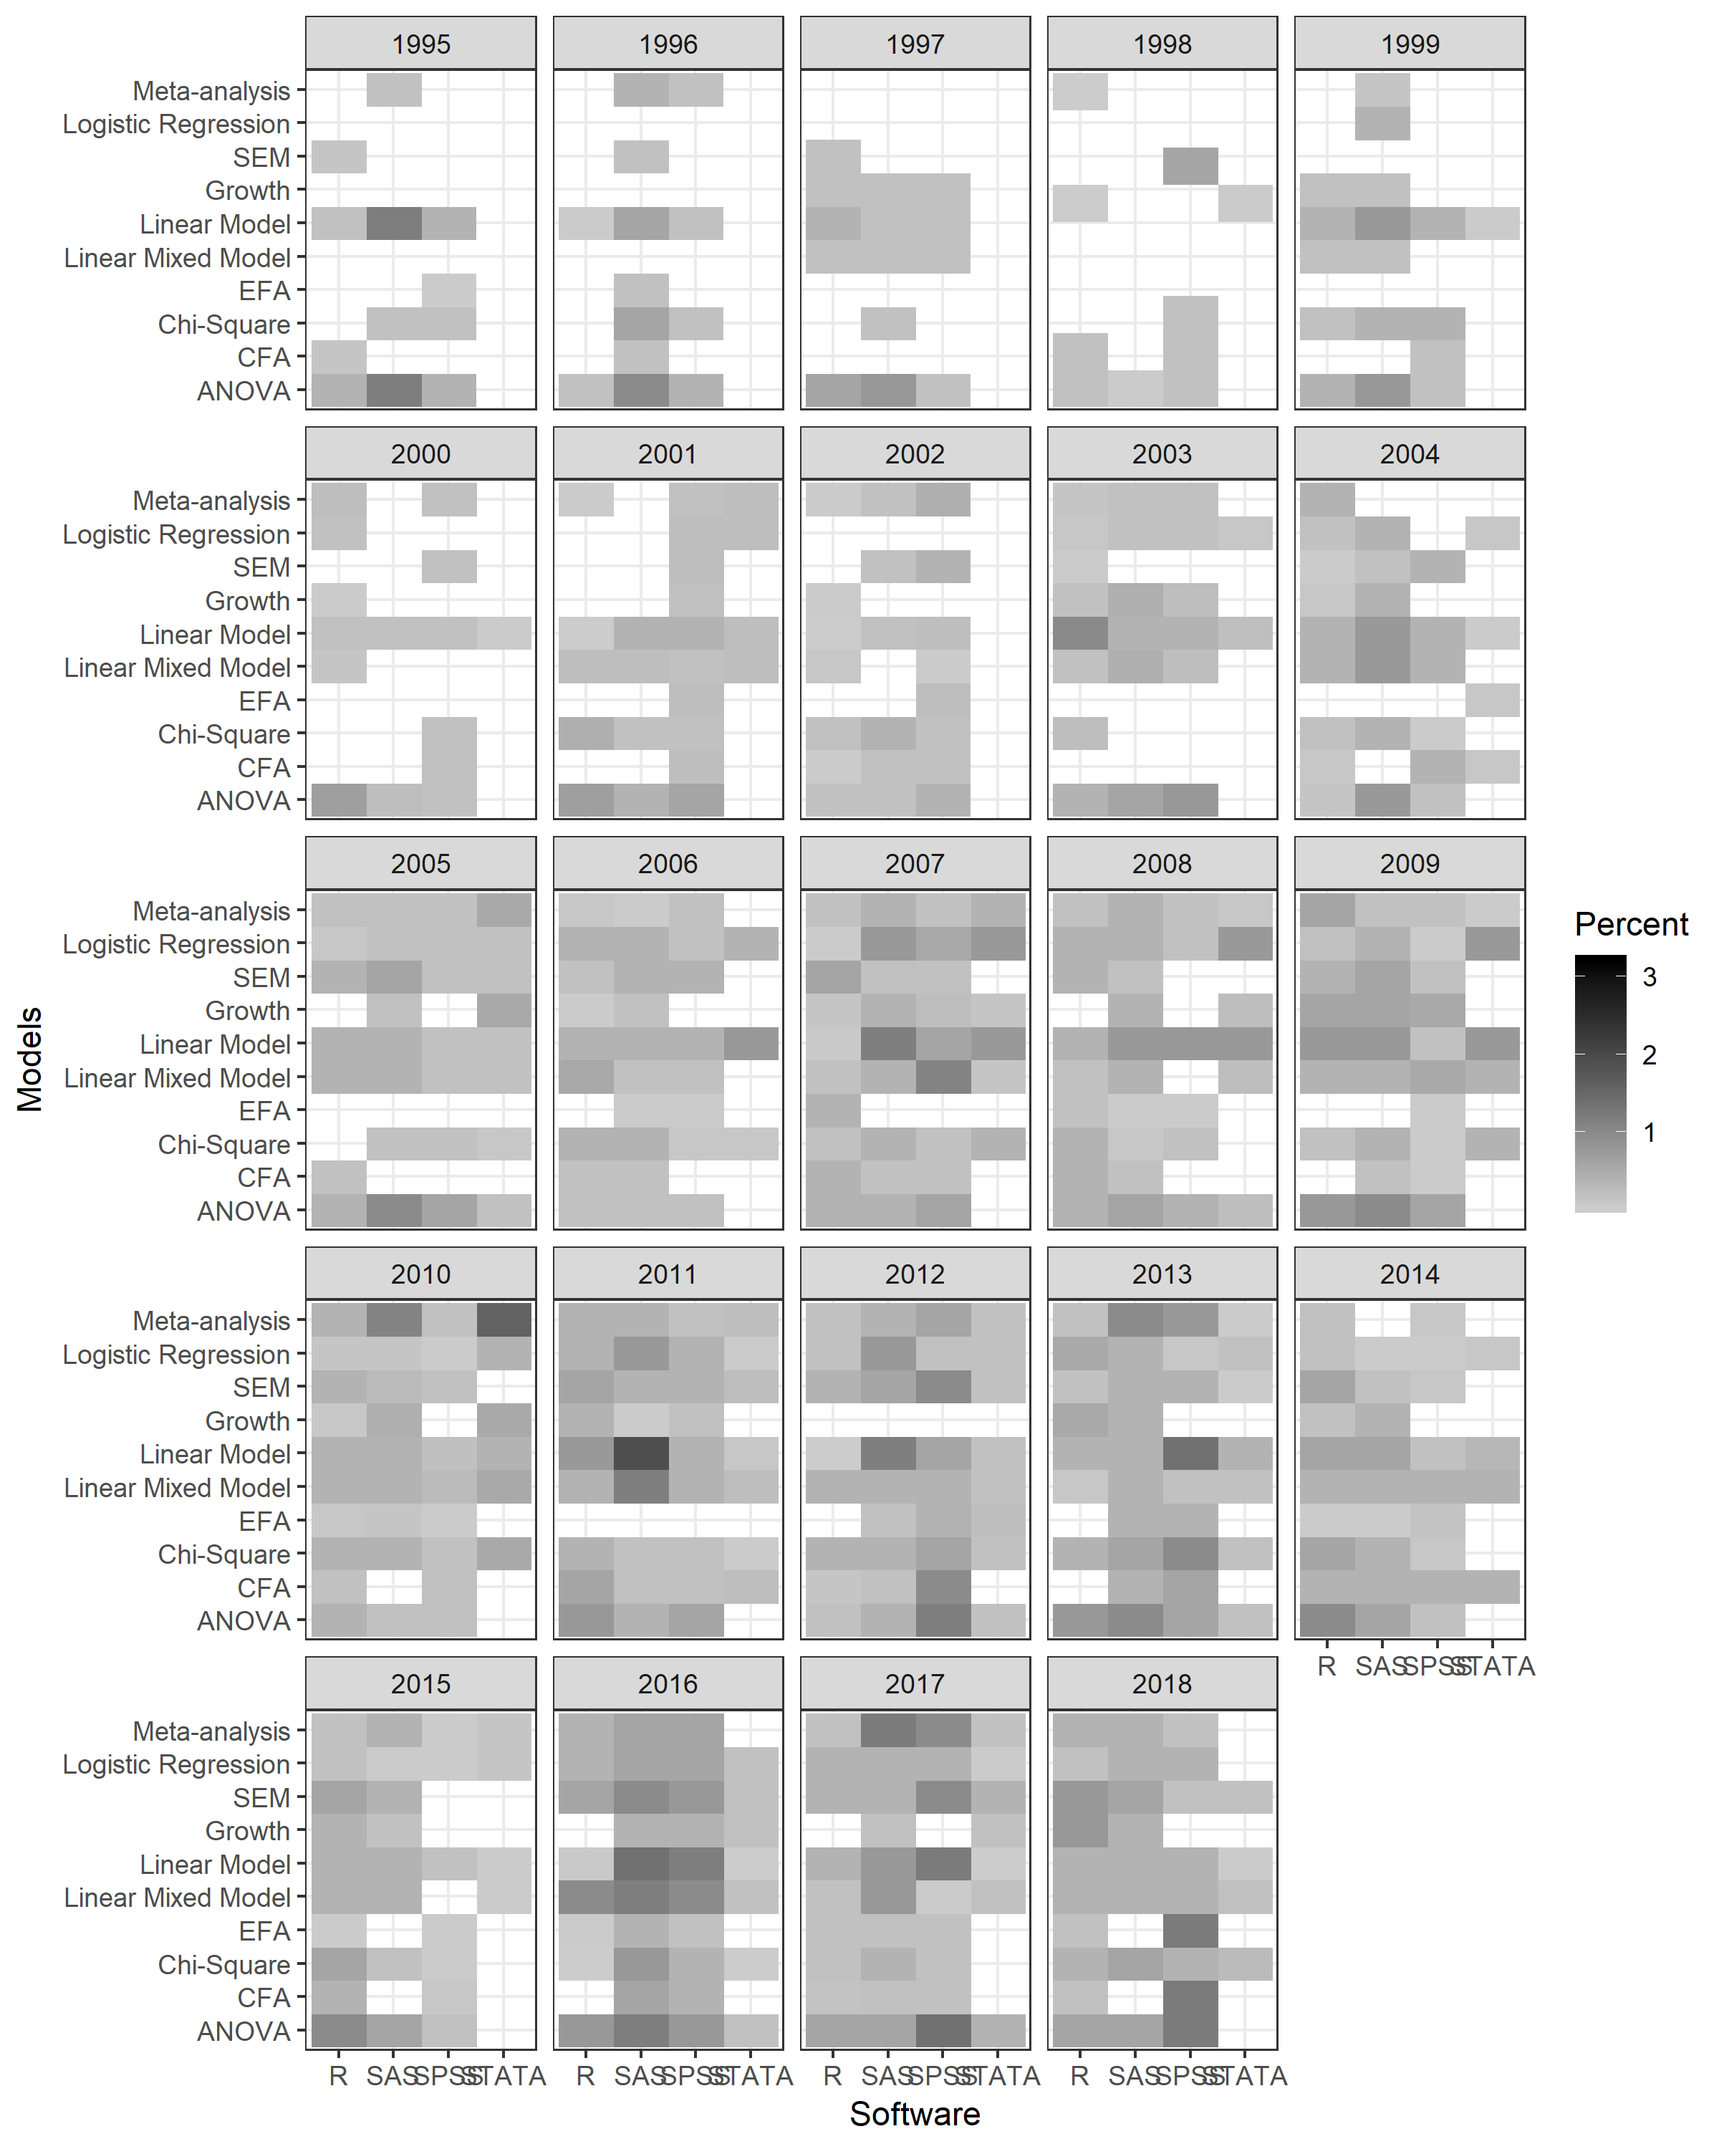
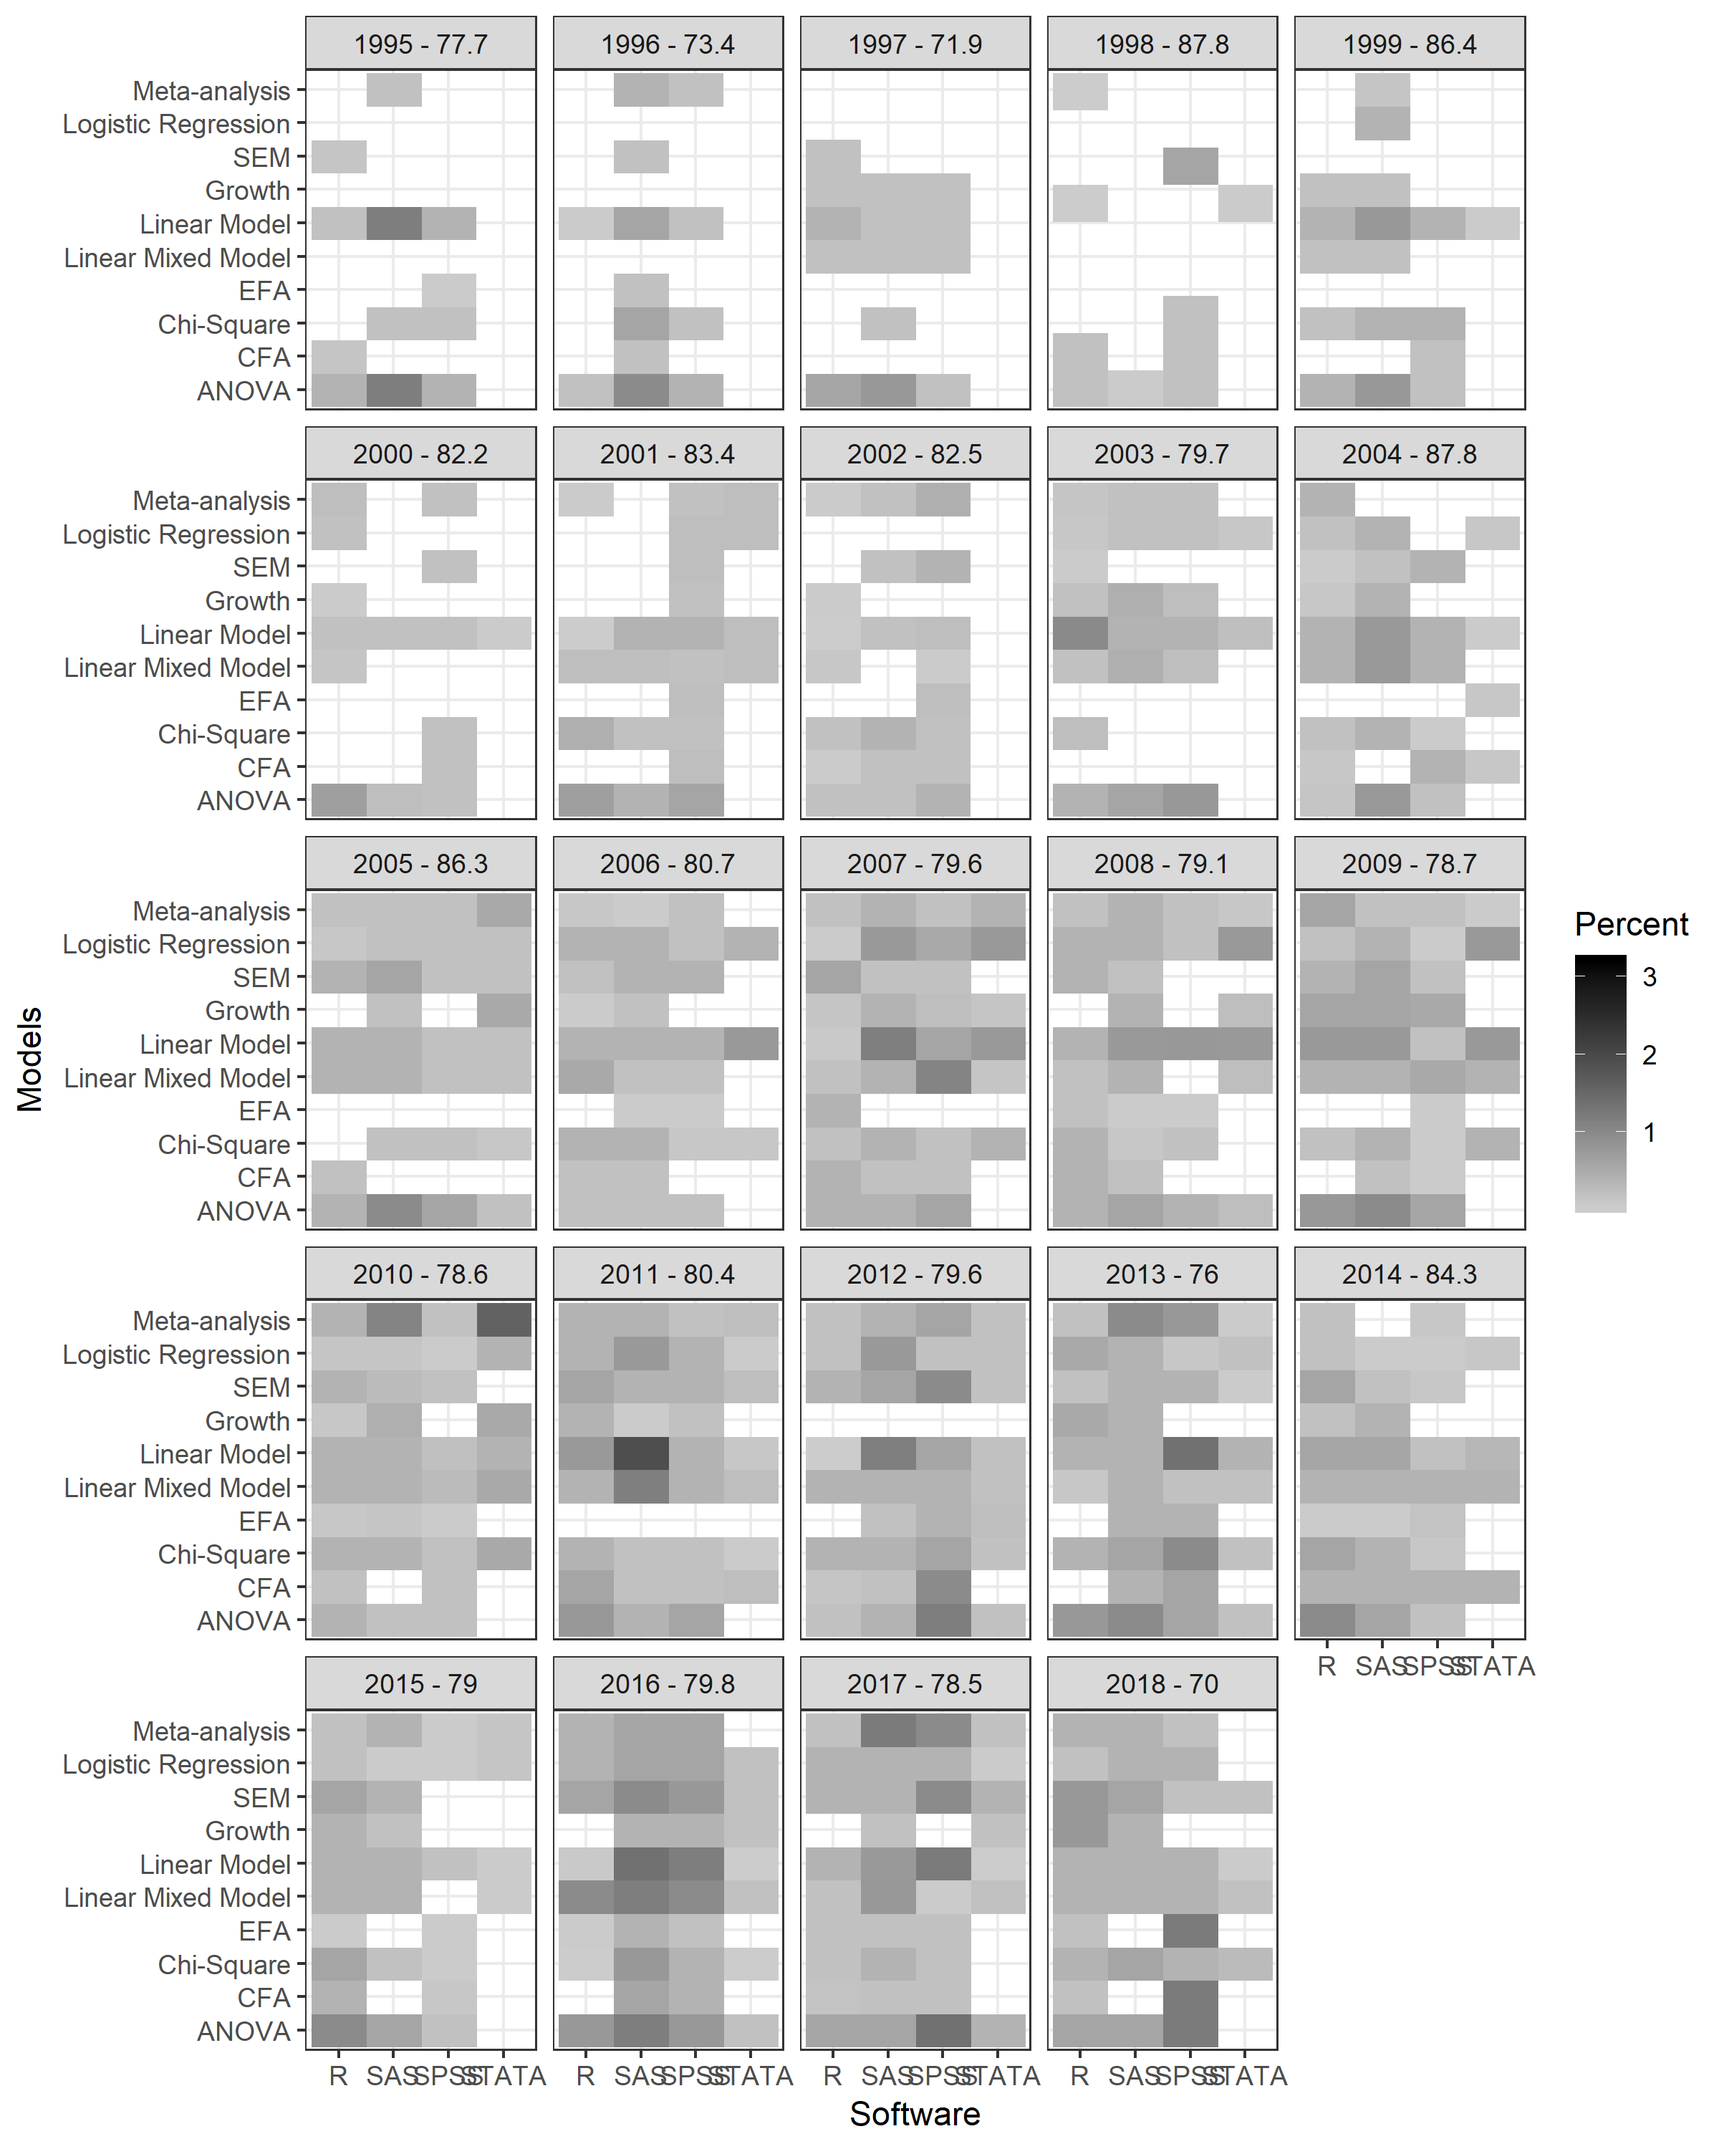
Update results

diff --git a/paper/software.tex b/paper/software.tex
@@ -566,7 +566,44 @@ are most closely paired with specific software. One note, there is a
 change there are duplicates in the data, for example, an article may
 cite both R and SAS within the document and mentioned using a linear
 model. In this case, this article will show up in the R/linear model
-cell as well as the SAS/linear model cell.
+cell as well as the SAS/linear model cell. This analysis is also limited
+to articles that have both a software and model keyword returned. On
+average, only about 20\% of all the PDFs obtained from the study had
+both a software and model keyword in them. This provides further
+evidence of the reporting bias, particularly with regard to software.
+
+The figure shows that the two most common combinations are R and ANOVA
+and SAS and linear model. ANOVA is also common with more specialized
+software such as AMOS, LISREL, or Mplus that may indicate these are
+being used for nested model comparisons. Linear mixed models were most
+commonly used in SAS with R and HLM software with slightly smaller
+percentages. Meta-analysis is most commonly associated with SPSS.
+Interestingly, IRT models are associated with R more than specialized
+IRT software, however the number of articles using IRT may be quite
+small and may not adequately cite the software used.
+
+The impact of publication year is explored next for the four general
+purpose statistical software, R, SAS, SPSS, and STATA. In addition, the
+models explored were restricted to reflect more general purpose
+statistical procedures. Each panel in Figure
+\ref{fig:software-statmethods-year} represents a different publication
+year. In the panel label the percentage of articles that are included in
+this study but did not include a software and model keyword are
+highlighted. These values range from a low of 70\% of the articles not
+appearing to a high of about 88\%. The percentage of missing articles
+does decrease slightly in recent years, however there is still evidence
+of reporting bias.
+
+The tile plot shown in Figure \ref{fig:software-statmethods-year} shows
+an increase in the percentage of keyword combinations that are found as
+the publications become more recent. This is particularly true for R,
+SAS, and SPSS software regardless of the model used. On the other hand,
+STATA appears infrequently within each year, but there is evidence of
+STATA appearing more frequently with more recent publications. There
+does not appear to be any significant trends over time with regard to
+which models are used in particular software, but R, SAS, and SPSS have
+most of the model categories filled in which supports the general usage
+of the software across a variety of model situations.
 
 \hypertarget{discussion}{%
 \section{Discussion}\label{discussion}}
